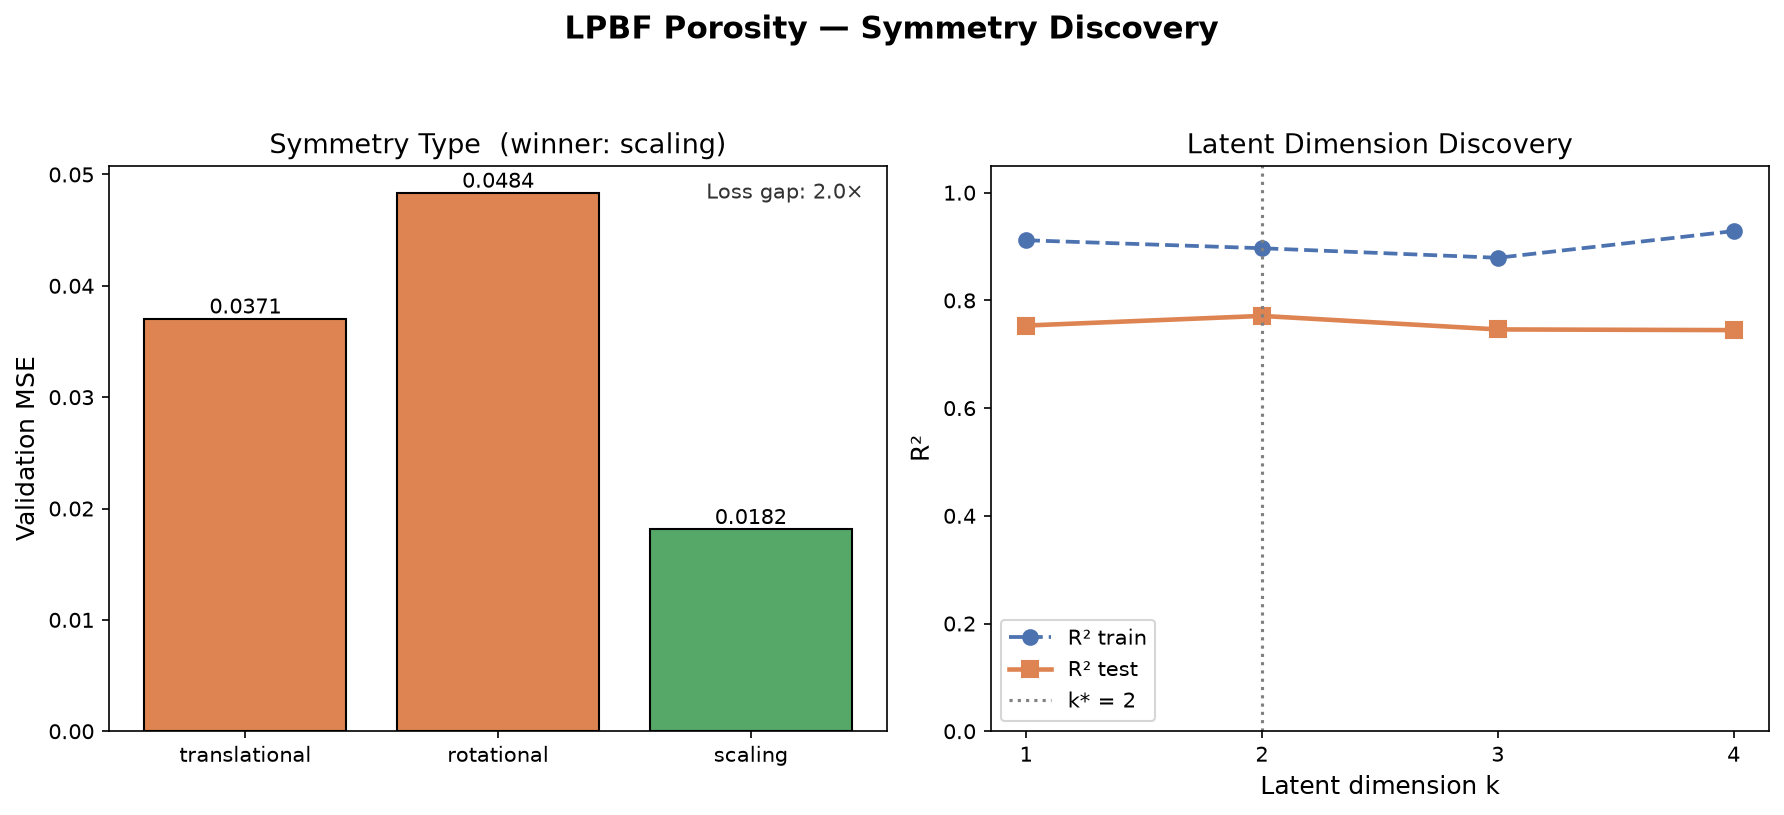
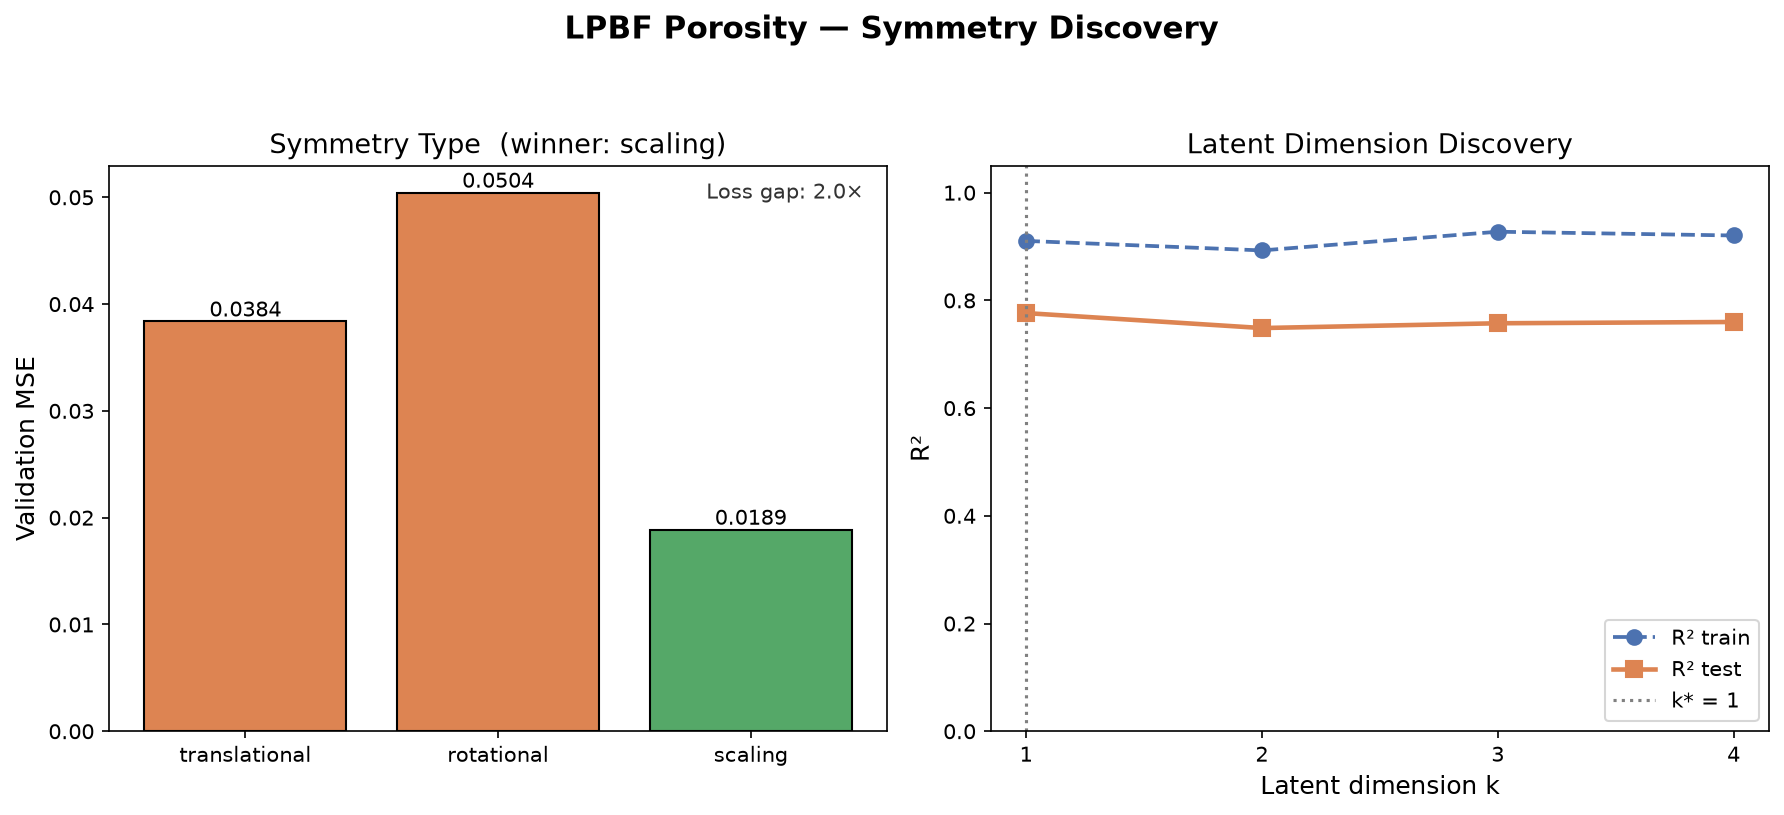
LPBF: drop log10(P_recoil/P_Laplace) from Step 2 input
The pressure ratio was being concatenated to the 5 Buckingham-Pi groups
as a 6th Step 2 feature. Removed: Step 2 now sees only the 5 DA Pi groups.

Knock-on effects:
- k* drops from 2 to 1 (PR was carrying the second latent dimension)
- Test R2 is essentially unchanged (0.777 vs 0.771)
- Step 2b still flags Pe_vap (R2=0.47) and Pr (R2=0.06) as missing
  from z, so both still get injected into Step 3 (11 features)
- Scaling still wins with 2.0x loss gap (MSE 0.0189)
- Null space is now 11 - 1 = 10 generators (was 9)

PR is still computed and used for the 3D surface plot at the end.
README refreshed end-to-end.

https://claude.ai/code/session_019oG18N9ibVpNC2ADwxtYd5

diff --git a/projects/20260912_Stage1_Prokash/Examples/lpbf_porosity_symmetry/discover_symmetry.py b/projects/20260912_Stage1_Prokash/Examples/lpbf_porosity_symmetry/discover_symmetry.py
@@ -578,18 +578,7 @@ def run_pipeline(X, y, Pi, PR, Pe_vap, Pr_thermal, materials, args):
     print(f"  Known Pi exponents projected onto null-space basis: cos = {recon_cos:+.4f}  "
           f"(±1 means the notebook Pi lies in the Pi-group span)")
     pi_features = compute_pi_features(X, pi_basis)
-
-    # --- Empirical extra feature: P_recoil / P_Laplace --------------------
-    # The notebook visualises pore fraction over (log10(Pi), log10(PR)).
-    # PR is a Clausius–Clapeyron expression — non-power-law — so it cannot
-    # be produced by Buckingham-Pi null-space reduction alone.  We inject
-    # it here as a precomputed feature: log10(PR) min-max scaled to [0, 1].
-    logPR = np.log10(np.maximum(PR, 1e-30))
-    logPR_scaled = (logPR - logPR.min()) / (logPR.max() - logPR.min() + 1e-12)
-    pi_features = np.hstack([pi_features, logPR_scaled.reshape(-1, 1)])
-    pi_feature_names = [f"Pi{i+1} (DA)" for i in range(pi_basis.shape[1])] + [
-        "log10(P_recoil/P_Laplace)"
-    ]
+    pi_feature_names = [f"Pi{i+1} (DA)" for i in range(pi_basis.shape[1])]
     results["pi_basis"] = pi_basis
     results["pi_features"] = pi_features
     results["pi_feature_names"] = pi_feature_names

diff --git a/projects/20260912_Stage1_Prokash/Examples/lpbf_porosity_symmetry/README.md b/projects/20260912_Stage1_Prokash/Examples/lpbf_porosity_symmetry/README.md
@@ -42,9 +42,10 @@ fundamental dimensions** (Mass, Length, Time, Temperature):
 | Boiling temperature | `Tb` | K | K |
 
 By the **Buckingham Pi theorem** (9 variables − 4 dimensions = **5 independent
-dimensionless groups**). A sixth non-power-law feature — the recoil-to-capillary
-pressure ratio `P_recoil / P_Laplace` — is added manually to separate the
-keyhole from the conduction regime (as in the companion notebook).
+dimensionless groups**). These five groups are the *only* features fed to
+Step 2 — the pressure ratio `P_recoil / P_Laplace` from the companion
+notebook is still computed (used for the 3D surface plot at the end) but is
+**not** added to the Step 2 input.
 
 Two further dimensionless quantities from the keyhole-mode-transition
 literature are computed per row and used **only** to validate the latent
@@ -90,9 +91,6 @@ Pr     = (η · Cp) / k                                              thermal Pra
 2. Calls `pydimension.data_preprocessing.DataPreprocessor` with an explicit
    `dimension_matrix.csv` (bypasses the unit-string parser which mishandles
    `W/(m·K)`). Falls back to an inline scipy/SymPy implementation if needed.
-3. Appends `log10(P_recoil / P_Laplace)` as a **sixth empirical feature** —
-   a Clausius–Clapeyron pressure ratio that cannot be produced by Buckingham-Pi
-   alone but is required to separate keyhole from conduction-mode porosity.
 
 **Actual output — 5 Pi groups discovered:**
 
@@ -102,7 +100,6 @@ Pr     = (η · Cp) / k                                              thermal Pra
 π3 = P × V³ × rho × k⁻² × dT⁻²      (normalised enthalpy form)
 π4 = P × V × rho × gamma⁻²           (capillary group)
 π5 = P × V³ × rho × k⁻² × Tb⁻²      (normalised enthalpy with Tb)
-+ log10(P_recoil / P_Laplace)         (empirical keyhole-regime separator)
 ```
 
 Verification: the known normalised-enthalpy exponent vector
@@ -117,10 +114,10 @@ Verification: the known normalised-enthalpy exponent vector
 
 **What it does:**
 - Applies **min-max scaling** to raw physical `X` → `X_norm_raw` (for Step 3).
-- Separately min-max scales the 6 Pi features → `X_norm_step2` (for Step 2).
+- Separately min-max scales the 5 Pi features → `X_norm_step2` (for Step 2).
 
 **Outputs:**
-- `X_norm_step2` — 6 Pi features scaled to [0, 1] (input to Step 2).
+- `X_norm_step2` — 5 Pi features scaled to [0, 1] (input to Step 2).
 - `X_norm_raw` — 9 physical variables scaled to [0, 1] (input to Step 3 always).
 - `y_norm` — min-max scaled pore fraction.
 
@@ -130,7 +127,7 @@ Verification: the known normalised-enthalpy exponent vector
 
 **Goal:** Find the smallest `k*` that can predict pore fraction.
 
-**Input:** The **6 Pi features only** (pi-only mode, default).
+**Input:** The **5 Pi features only** (pi-only mode, default).
 
 > Pi-only is the recommended default for this dataset. The LPBF material-property
 > columns (`A`, `rho`, `k`, `Lv`, `dT`) only take 5 discrete values (one per
@@ -139,7 +136,7 @@ Verification: the known normalised-enthalpy exponent vector
 
 **Encoder architecture:** Multilayer MLP (default hidden dims `[64, 32]`):
 ```
-6  →  Linear(64)  →  ReLU  →  Linear(32)  →  ReLU  →  Linear(k)
+5  →  Linear(64)  →  ReLU  →  Linear(32)  →  ReLU  →  Linear(k)
 ```
 Paired with a nonlinear decoder (two 64-unit hidden layers). Sweep over
 `k = 1, 2, 3, 4`.
@@ -148,18 +145,19 @@ Paired with a nonlinear decoder (two 64-unit hidden layers). Sweep over
 
 | k | R2_train | R2_test | MSE |
 |---|---|---|---|
-| 1 | 0.9117 | 0.7533 | 0.024792 |
-| **2** | **0.8969** | **0.7712** | **0.022993** ← optimal |
-| 3 | 0.8791 | 0.7461 | 0.025515 |
-| 4 | 0.9287 | 0.7448 | 0.025643 |
+| **1** | **0.9105** | **0.7765** | **0.022465** ← optimal |
+| 2 | 0.8928 | 0.7487 | 0.025259 |
+| 3 | 0.9275 | 0.7575 | 0.024367 |
+| 4 | 0.9205 | 0.7599 | 0.024126 |
 
-**`k* = 2`** — pore fraction is controlled by two latent coordinates. `k=2`
-gives the best test R² (0.7712) with the lowest MSE. Adding more latents
-increases train R² but decreases test R², indicating overfitting beyond k=2.
+**`k* = 1`** — without the empirical pressure-ratio feature, pore fraction
+is controlled by a single latent coordinate, and `k=1` gives both the best
+test R² (0.7765) and the lowest MSE. Adding more latents lowers test R²,
+indicating overfitting.
 
-The test R² of **0.771** is notably higher than the raw Pi-collapse R² of
+The test R² of **0.777** is notably higher than the raw Pi-collapse R² of
 ~0.446 from the textbook formula alone, because the encoder is free to find
-the best 2-D projection of the 6-feature Pi space rather than being
+the best 1-D projection of the 5-feature Pi space rather than being
 constrained to a single formula.
 
 ---
@@ -173,7 +171,7 @@ see it directly.
 
 **What it does:**
 1. Evaluates the trained Step 2 encoder on every sample → `z` of shape
-   `(232, 2)`.
+   `(232, k*)` (here `k* = 1`).
 2. Fits two ordinary linear regressions, `z → log10(Pe_vap)` and
    `z → log10(Pr)`, and reports the R² of each.
 3. Anything with `R² < 0.80` (the *discovered* threshold) is flagged as
@@ -184,8 +182,8 @@ see it directly.
 
 | Quantity | R²(`z` → log10·) | Verdict |
 |---|---|---|
-| Pe_vap | 0.5524 | NOT in latent span → injected |
-| Pr     | 0.3019 | NOT in latent span → injected |
+| Pe_vap | 0.4651 | NOT in latent span → injected |
+| Pr     | 0.0592 | NOT in latent span → injected |
 
 → Step 3 input grows from 9 to **11 features**:
 `[P, V, A, rho, k, Lv, dT, gamma, Tb, Pe_vap, Pr]`.
@@ -218,21 +216,17 @@ that Step 2b flagged as missing from the latent span (here: `Pe_vap`, `Pr`
 **Actual results (with Pe_vap and Pr injected):**
 
 ```
-scaling        : 0.018161  ← winner
-translational  : 0.037065
-rotational     : 0.048364
+scaling        : 0.018870  ← winner
+translational  : 0.038371
+rotational     : 0.050433
 Loss gap: 2.0×
 ```
 
 **Scaling wins**, confirming the power-law dimensional structure of LPBF
-porosity. The 2.0× gap is wider than the 1.4× gap obtained without
-Pe_vap/Pr injection (the manuscript-Pi columns give the scaling encoder
-two extra log-meaningful axes), and still narrower than the keyhole
-example's 6.3× because:
-- 5 material-property variables take only 5 discrete values (one per alloy),
-  limiting how much scaling information the encoder can extract from them.
-- The two-latent-dimension (`k*=2`) structure makes the encoder less
-  constrained and harder to separate from translational alternatives.
+porosity. The 2.0× gap is still narrower than the keyhole example's 6.3×
+because the 5 material-property variables take only 5 discrete values (one
+per alloy), limiting how much scaling information the encoder can extract
+from them.
 
 ---
 
@@ -241,59 +235,58 @@ example's 6.3× because:
 **Goal:** Extract directions in log-variable-space along which pore fraction
 is invariant.
 
-**Input:** Winning encoder weight matrix `W` (shape `2 × 11` — the 9
+**Input:** Winning encoder weight matrix `W` (shape `1 × 11` — the 9
 physical variables plus `Pe_vap` and `Pr`).
 
-**Encoder weight rows (L2-normalised):**
+**Encoder weight row (L2-normalised):**
 
 ```
          P        V        A      rho        k       Lv       dT    gamma       Tb   Pe_vap       Pr
-Row 1: +0.309  -0.405  +0.420  +0.129  -0.008  +0.288  -0.533  -0.091  +0.164  +0.003  -0.380
-Row 2: -0.691  -0.357  +0.127  +0.160  +0.274  +0.426  -0.182  -0.086  -0.079  -0.186  -0.127
+Row 1: -0.603  -0.407  +0.163  -0.144  +0.114  -0.426  +0.153  -0.434  +0.098  +0.048  +0.070
 ```
 
-Row 1's cosine with the known normalised-enthalpy exponents
-`[1, 1, 1, 1, −2, 1, −2, 0, 0, 0, 0]` is **+0.51** (rises from +0.0 in the
-9-variable run — Pr's −0.38 weight contributes the new alignment).
+Cosine with the known normalised-enthalpy exponents
+`[1, 1, 1, 1, −2, 1, −2, 0, 0, 0, 0]` is **−0.54** (the row is anti-aligned
+with the textbook formula — same physical direction, opposite sign).
 
-With `k* = 2` there are `11 − 2 = 9` null-space generators.
+With `k* = 1` there are `11 − 1 = 10` null-space generators.
 
 ---
 
 ### Step 5 — Physical Interpretation
 
-**Actual generators (11-D Step 3 input, 2 latent → 9 generators):**
+**Actual generators (11-D Step 3 input, 1 latent → 10 generators):**
 
 | Generator | Dominant variable | Trade-off | Physical meaning |
 |---|---|---|---|
-| 1 | A | increase A, decrease P, increase V | Absorptivity–power–speed trade-off |
-| 2 | rho | increase ρ, increase V, decrease Lv | Density compensated by faster scan |
-| 3 | k | increase k, increase P, increase V | Conductive metal absorbs higher P and V |
-| 4 | Lv | increase Lv, increase P, increase V | Larger latent heat compensated by more power and faster scan |
-| 5 | dT | increase dT, increase P, decrease V | Superheat trade-off |
-| 6 | gamma | increase γ, decrease V | Surface-tension–speed compensation |
-| 7 | Tb | increase Tb, decrease P | Boiling-temperature trade-off |
-| 8 | Pe_vap | increase Pe_vap, decrease P, decrease V | Vaporisation-Péclet trade-off (new — Step 2b injection) |
-| 9 | Pr | increase Pr, increase P, decrease V | Thermal-Prandtl trade-off (new — Step 2b injection) |
+| 1 | V | increase V, decrease P, decrease Lv, decrease γ | Speed–power trade-off |
+| 2 | A | increase A, increase P | Absorptivity–power compensation |
+| 3 | rho | increase ρ, decrease P | Density–power trade-off |
+| 4 | k | increase k, increase P | Conductive metal absorbs higher P |
+| 5 | Lv | increase Lv, decrease P, decrease V, decrease γ | Latent-heat trade-off |
+| 6 | dT | increase dT, increase P | Superheat trade-off |
+| 7 | gamma | increase γ, decrease P, decrease V, decrease Lv | Surface-tension trade-off |
+| 8 | Tb | increase Tb, increase P | Boiling-temperature trade-off |
+| 9 | Pe_vap | increase Pe_vap alone | Pure Pe_vap direction (Step 2b injection) |
+| 10 | Pr | increase Pr, increase P | Thermal-Prandtl trade-off (Step 2b injection) |
 
 **Constrained vs free generators:**
 
-- **Constrained (data-determined):** Generators 1–3 involve P and V — the
+- **Constrained (data-determined):** Generators 1–4 involve P and V — the
   two process parameters that vary continuously within each material
   (30–50 points per alloy). Their exponents are well-determined.
 
-- **Free (data-limited):** Generators 4–7 are dominated by material-property
+- **Free (data-limited):** Generators 5–8 are dominated by material-property
   variables (Lv, gamma, Tb, dT) that each take only 5 distinct values
   (confounded across alloys). The pipeline cannot separately determine these
   exponents from 5 alloys alone. This is its honest statement: *recovering
   all 9 exponents would require ≥ 20 alloys with independently varied
   thermophysical properties.*
 
-- **Injected (Step 2b):** Generators 8–9 are the directions along which
-  `Pe_vap` and `Pr` can be varied while pore fraction stays constant. Both
-  are dominated by `P` and `V` since those are the only continuously-varying
-  knobs; the material-property dependence inside `Pe_vap` and `Pr` is again
-  constrained by the 5-alloy confounding.
+- **Injected (Step 2b):** Generators 9–10 are the directions along which
+  `Pe_vap` and `Pr` can be varied while pore fraction stays constant. `Pe_vap`
+  appears as an almost-pure axis (the per-row formula sits in a direction
+  orthogonal to the discovered latent); `Pr` couples weakly to `P`.
 
 ---
 
@@ -359,17 +352,17 @@ axis is needed to distinguish keyhole porosity from lack-of-fusion porosity.
 
 | Aspect | Result |
 |---|---|
-| Pi groups discovered | 5 (A, V²/Lv, normalised-enthalpy form, capillary, Tb-variant) + PR |
+| Pi groups discovered | 5 (A, V²/Lv, normalised-enthalpy form, capillary, Tb-variant) |
 | Known Pi in null-space | cos = +1.0000 ✓ |
-| Latent dimension k* | **2** — two coordinates needed for pore fraction |
-| Test R² | **0.771** (vs ~0.446 from raw Pi formula) |
-| Pe_vap / Pr in latent span? | R² = 0.55 / 0.30 → **both injected into Step 3** |
+| Latent dimension k* | **1** — a single coordinate suffices for pore fraction |
+| Test R² | **0.777** (vs ~0.446 from raw Pi formula) |
+| Pe_vap / Pr in latent span? | R² = 0.47 / 0.06 → **both injected into Step 3** |
 | Step 3 input dimension | **11** (9 physical + Pe_vap + Pr) |
-| Symmetry type | **Scaling** — **2.0× loss gap** (up from 1.4× without injection) |
-| Generators | 9 directions (11 variables − 2 latent dimensions) |
-| Constrained generators | A–P, rho–V–k, P–V–A trade-offs (process parameters) |
+| Symmetry type | **Scaling** — **2.0× loss gap** |
+| Generators | 10 directions (11 variables − 1 latent dimension) |
+| Constrained generators | V–P–Lv–γ, A–P, ρ–P, k–P trade-offs (process parameters) |
 | Free generators | Lv, gamma, dT, Tb (material-only, only 5 discrete values) |
-| Injected generators | Pe_vap, Pr (Step 2b-augmented directions) |
+| Injected generators | Pe_vap (pure axis), Pr–P (Step 2b-augmented directions) |
 
 ---
 
